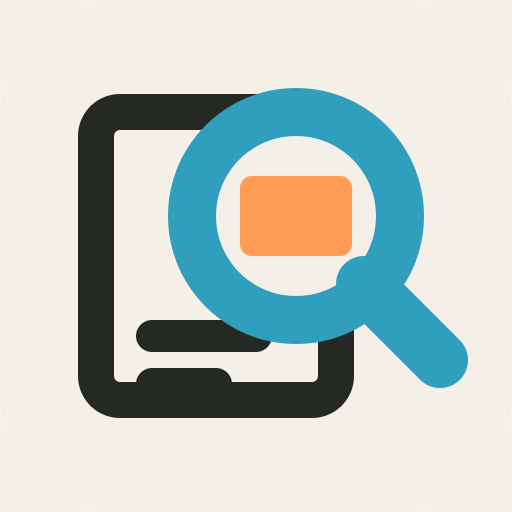
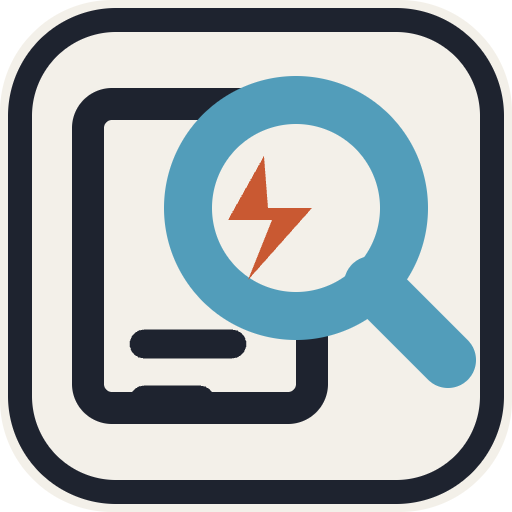
Replace the rejected cut-paper artwork with the drawn family
Original orbital-diagnostic cover, share card, switcher crop and refined mark
with its own 512px install icon; superseded v3 files removed.

diff --git a/public/index.html b/public/index.html
@@ -18,11 +18,11 @@
     <meta property="og:url" content="https://share.loftwah.com/" />
     <meta
       property="og:image"
-      content="https://share.loftwah.com/brand/linkcheck-share-v3.jpg"
+      content="https://share.loftwah.com/brand/linkcheck-share-v4.jpg"
     />
     <meta
       property="og:image:alt"
-      content="Link Check: a teal paper magnifier over an ivory page card holding a burnt-orange landscape panel above two text rules."
+      content="Link Check: a technician traces a glowing cable to a faulty connector in an orbital bay, on the App Composer share card."
     />
     <meta property="og:image:width" content="1200" />
     <meta property="og:image:height" content="630" />
@@ -31,12 +31,12 @@
     <meta name="twitter:description" content="Inspect live Open Graph and SEO metadata, verify image dimensions and export a dated report for your agent." />
     <meta
       name="twitter:image:alt"
-      content="Link Check: a teal paper magnifier over an ivory page card holding a burnt-orange landscape panel above two text rules."
+      content="Link Check: a technician traces a glowing cable to a faulty connector in an orbital bay, on the App Composer share card."
     />
     <meta property="og:image:type" content="image/jpeg" />
     <meta
       name="twitter:image"
-      content="https://share.loftwah.com/brand/linkcheck-share-v3.jpg"
+      content="https://share.loftwah.com/brand/linkcheck-share-v4.jpg"
     />
     <link rel="icon" type="image/svg+xml" href="/brand/mark.svg" />
     <link rel="apple-touch-icon" href="/brand/icon.png" />
@@ -90,7 +90,7 @@
         <li data-destination>
           <a href="https://guestbook.loftwah.com"
             ><img
-              src="/brand/apps/herethere-small-v3.webp"
+              src="/brand/apps/herethere-small-v4.webp"
               width="40"
               height="40"
               alt=""
@@ -100,7 +100,7 @@
         <li data-destination>
           <a href="https://showcase.loftwah.com"
             ><img
-              src="/brand/apps/linkarooie-small-v3.webp"
+              src="/brand/apps/linkarooie-small-v4.webp"
               width="40"
               height="40"
               alt=""
@@ -110,7 +110,7 @@
         <li data-destination>
           <a href="https://share.loftwah.com" aria-current="page"
             ><img
-              src="/brand/apps/linkcheck-small-v3.webp"
+              src="/brand/apps/linkcheck-small-v4.webp"
               width="40"
               height="40"
               alt=""
@@ -120,7 +120,7 @@
         <li data-destination>
           <a href="https://ready.loftwah.com"
             ><img
-              src="/brand/apps/hello-small-v3.webp"
+              src="/brand/apps/hello-small-v4.webp"
               width="40"
               height="40"
               alt=""
@@ -130,7 +130,7 @@
         <li data-destination>
           <a href="https://ai.loftwah.com"
             ><img
-              src="/brand/apps/carryforward-small-v3.webp"
+              src="/brand/apps/carryforward-small-v4.webp"
               width="40"
               height="40"
               alt=""
@@ -208,18 +208,18 @@
         </div>
         <figure>
           <img
-            src="/brand/linkcheck-art-v3-960.webp"
+            src="/brand/linkcheck-art-v4-960.webp"
             srcset="
-              /brand/linkcheck-art-v3-480.webp 480w,
-              /brand/linkcheck-art-v3-960.webp 960w
+              /brand/linkcheck-art-v4-480.webp 480w,
+              /brand/linkcheck-art-v4-960.webp 960w
             "
             sizes="(max-width: 800px) calc(100vw - 40px), 400px"
             width="960"
             height="960"
-            alt="A teal cut-paper magnifier over an ivory page card holding a burnt-orange landscape panel above two graphite rules."
+            alt="An original animated-style illustration of an orbital diagnostic bay: a technician traces a glowing cable to a cracked connector with a small orange spark."
           />
           <figcaption>
-            Reviewed cut-paper Link Check artwork, kept separate from any
+            Original illustration for Link Check. Kept separate from any
             inspected page. Inspect a page to see its own preview.
           </figcaption>
         </figure>

diff --git a/README.md b/README.md
@@ -20,7 +20,7 @@ Site identity checks inspect the first declared favicon and Apple touch icon (25
 
 Contributions: [Contributing](CONTRIBUTING.md), [Code of Conduct](CODE_OF_CONDUCT.md), [Security](SECURITY.md), [Accessibility](ACCESSIBILITY.md). The first viewport presents the inspection task; results lead with site identity and share preview, with passed checks and guidance collapsed.
 
-Artwork release, reviewed 17 October 2026: the hero, the default social card and the app icon are the reviewed App Composer cut-paper set (teal magnifier over an ivory page card). Masters and every derivative are recorded in `public/brand/linkcheck-art-v3.PROVENANCE.txt`; `public/brand/mark.svg` and `public/brand/icon.png` are authored geometry and its 512px flat ivory apple-touch rendering; the app switcher uses the five reviewed 96px crops in `public/brand/apps/`. The superseded glossy `linkcheck-art.jpg`, the unreferenced `composer-art.*`/`composer-mark.svg` pair and the standalone `icon.svg` were removed with that release and remain in git history. `/space.woff2` is preloaded because it is the declared source of the one bundled face headings ask for.
+Artwork release, reviewed 17 October 2026: the hero, the default social card and the app icon are the reviewed App Composer ink-line cel animation set (an orbital diagnostic bay where a technician traces a glowing cable to a cracked connector). `public/brand/linkcheck-art-v4-master.png` is the editable master; the 480/960 WebP hero renders in a reserved 1:1 box, and the 1200 × 630 JPEG share card is the same file the Composer catalogue ships. `public/brand/mark.svg` and `public/brand/icon.png` are authored geometry and its 512px apple-touch rendering; the app switcher uses the five reviewed 96px crops in `public/brand/apps/`. The superseded glossy `linkcheck-art.jpg`, the unreferenced `composer-art.*`/`composer-mark.svg` pair and the standalone `icon.svg` were removed in an earlier artwork release and remain in git history. `/space.woff2` is preloaded because it is the declared source of the one bundled face headings ask for.
 
 Recovery release, reviewed 17 October 2026: every failed inspection names its own next step, a failed or new run clears the previous report from the document, and a filter that hides every finding says what it hid. This deployment lists its own host among the reviewed hosts and therefore keeps the `global_fetch_strictly_public` compatibility flag: Cloudflare answers a custom-domain Worker that fetches its own hostname with HTTP 522 unless that flag is enabled, so without it the self-check could never succeed while the page claimed it could. `tests/self-inspection.test.mjs` keeps the host list and the flag together.
 

diff --git a/public/brand/apps/README.md b/public/brand/apps/README.md
@@ -1,5 +1,5 @@
-Navigation crops for the app switcher, reviewed 17 October 2026. These 96x96 WebP derivatives come from the reviewed cut-paper tiles in https://github.com/loftwah/app-composer/tree/main/public/brand/apps, exported at the same time as each app's own hero art. Copyright and usage follow the parent MIT repository. No vendor UI and no personal images.
+Navigation crops for the app switcher, reviewed 17 October 2026. These 96x96 WebP derivatives come from the reviewed ink-line cel animation tiles in https://github.com/loftwah/app-composer/tree/main/public/brand/apps, exported at the same time as each app's own hero art. Copyright and usage follow the parent MIT repository. No vendor UI and no personal images.
 
-Current set: `herethere-small-v3`, `linkarooie-small-v3`, `linkcheck-small-v3`, `hello-small-v3` and `carryforward-small-v3`. Each file is cropped from its own app's cut-paper tile so the switcher matches the tile a visitor clicked; none is a generic icon and none is another app's character art.
+Current set: `herethere-small-v4`, `linkarooie-small-v4`, `linkcheck-small-v4`, `hello-small-v4` and `carryforward-small-v4`. Each file is cropped from its own app's illustration so the switcher matches the tile a visitor clicked; none is a generic icon and none is another app's character art.
 
-Removed in this release: the 14 October 2026 `guestbook-small-v1/v2`, `showcase-small-v1/v2`, `linkcheck-small-v1`, `hello-small-v1` and `state-small-v1` crops, and `creators/linkarooie-kangaroo-v1.png`. They came from the earlier mixed set and stayed only while the apps still referenced them. The bytes remain in this repository's git history.
+Removed in earlier artwork releases: the 14 October 2026 `guestbook-small-v1/v2`, `showcase-small-v1/v2`, `linkcheck-small-v1`, `hello-small-v1` and `state-small-v1` crops, and `creators/linkarooie-kangaroo-v1.png`. They came from the earlier mixed set and stayed only while the apps still referenced them. The superseded 17 October 2026 cut-paper crops were removed with the ink-line cel animation release. The bytes remain in this repository's git history.

diff --git a/DESIGN.md b/DESIGN.md
@@ -2,7 +2,7 @@
 
 Reviewed 13 October 2026; artwork and recovery reviewed 17 October 2026. Link Check is an Operate surface within App Composer’s existing visual identity: charcoal/ivory, signal orange, self-hosted Space Grotesk headings and native sans controls. Preserve native forms, predictable keyboard focus, saved themes and useful density.
 
-Artwork, reviewed 17 October 2026. The hero, the default social card and the app icon are the reviewed App Composer cut-paper screenprint set: a teal paper magnifier over an ivory page card with one burnt-orange landscape panel and two graphite rules, on warm ivory paper with graphite ink. `public/brand/linkcheck-art-v3-master.png` is the editable master; the 480/960 WebP hero renders in a reserved 1:1 box with a 1px hairline border, and the 1200 × 630 JPEG share card is the same file the Composer catalogue ships. `public/brand/mark.svg` is authored geometry and `public/brand/icon.png` is its 512px flat ivory apple-touch rendering. No vendor icon, platform logo or inspected page is ever drawn into the artwork. Provenance: `public/brand/linkcheck-art-v3.PROVENANCE.txt`.
+Artwork, reviewed 17 October 2026. The hero, the default social card and the app icon are the reviewed App Composer ink-line cel animation set: an orbital diagnostic bay where a technician traces a glowing cable to a cracked connector with a small orange spark. `public/brand/linkcheck-art-v4-master.png` is the editable master; the 480/960 WebP hero renders in a reserved 1:1 box with a 1px hairline border, and the 1200 × 630 JPEG share card is the same file the Composer catalogue ships. `public/brand/mark.svg` is authored geometry and `public/brand/icon.png` is its 512px apple-touch rendering. No vendor icon, platform logo or inspected page is ever drawn into the artwork.
 
 The display font is preloaded from `/space.woff2`, which is the declared source of the one bundled face that headings ask for, so the early request is consumed rather than wasted.
 
